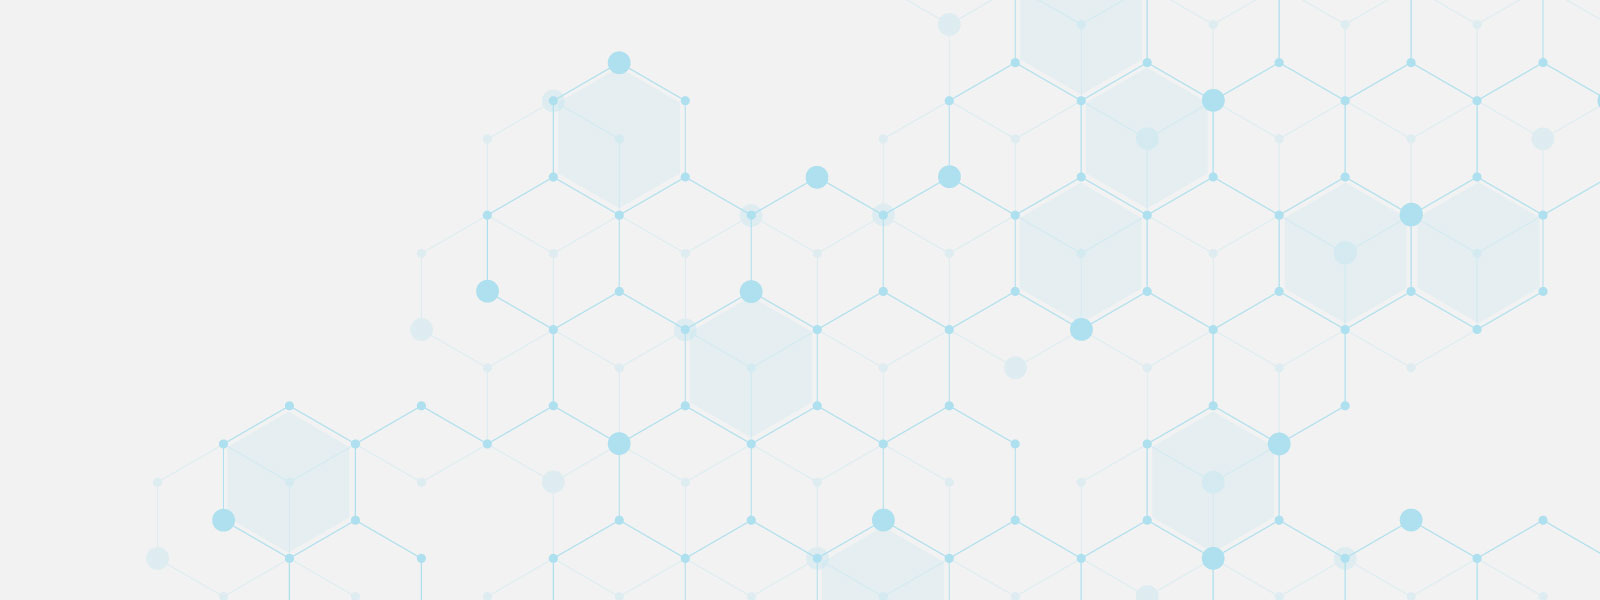
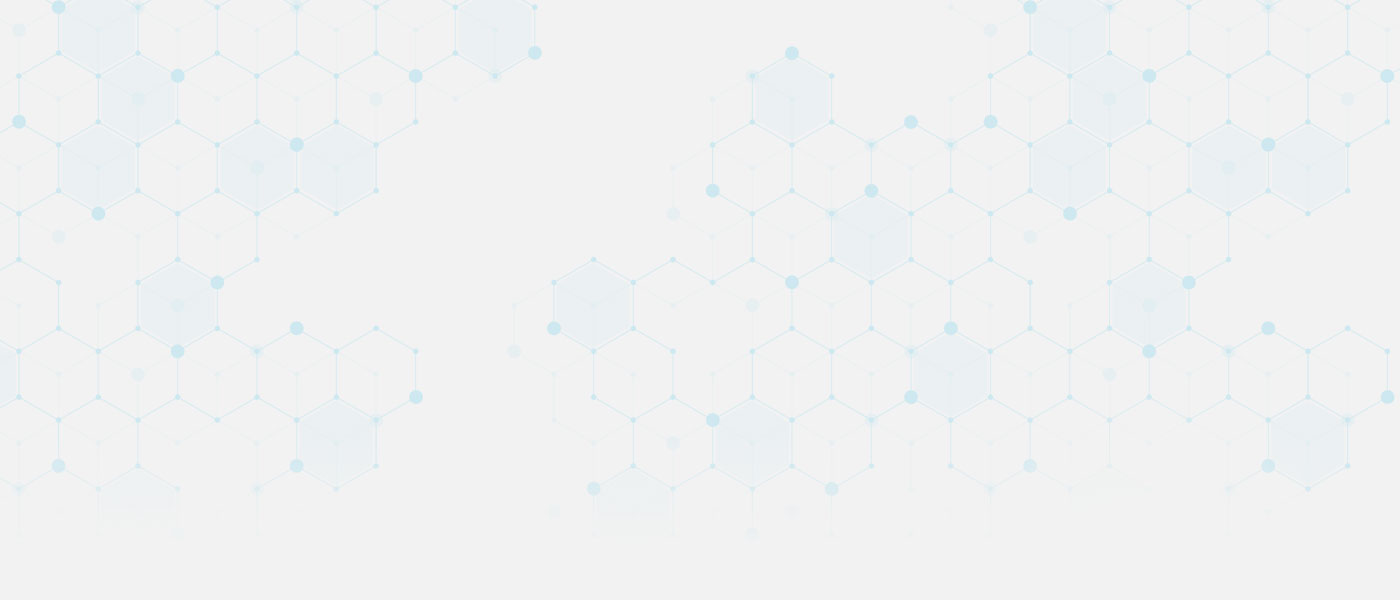
Ajuste Tema Portal Regional

diff --git a/portal-regional/css/style.css b/portal-regional/css/style.css
@@ -21,9 +21,9 @@ a{
 	padding-bottom: 40px;
 }
 #mapa{
-	background: url("../img/parallax-bvs.jpg")top right no-repeat;
-	background-color: red;
-	background-size: cover;
+	background: url("../img/parallax-bvs.jpg")top center no-repeat;
+	background-color: #f2f2f2;
+	background-size: 100%;
 	padding: 50px 0 20px 0;
 	border-top: 1px solid #ddd;
 }
@@ -429,4 +429,7 @@ a{
 .box-apoio a:hover{
 	color: #238b8e;
 	opacity: .8;
+}
+summary{
+	margin-bottom: 15px;
 }
